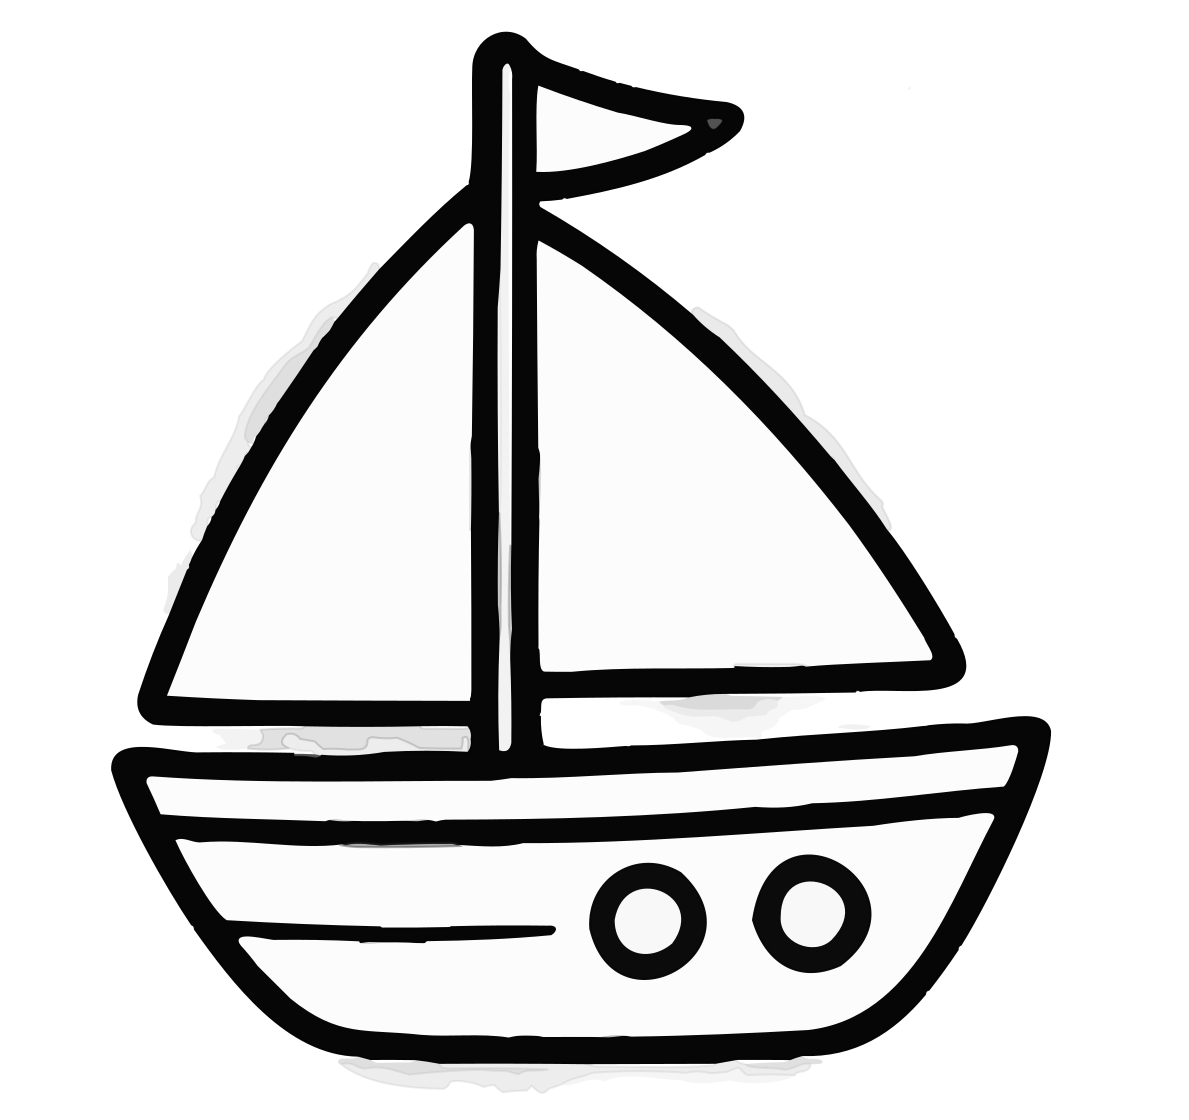
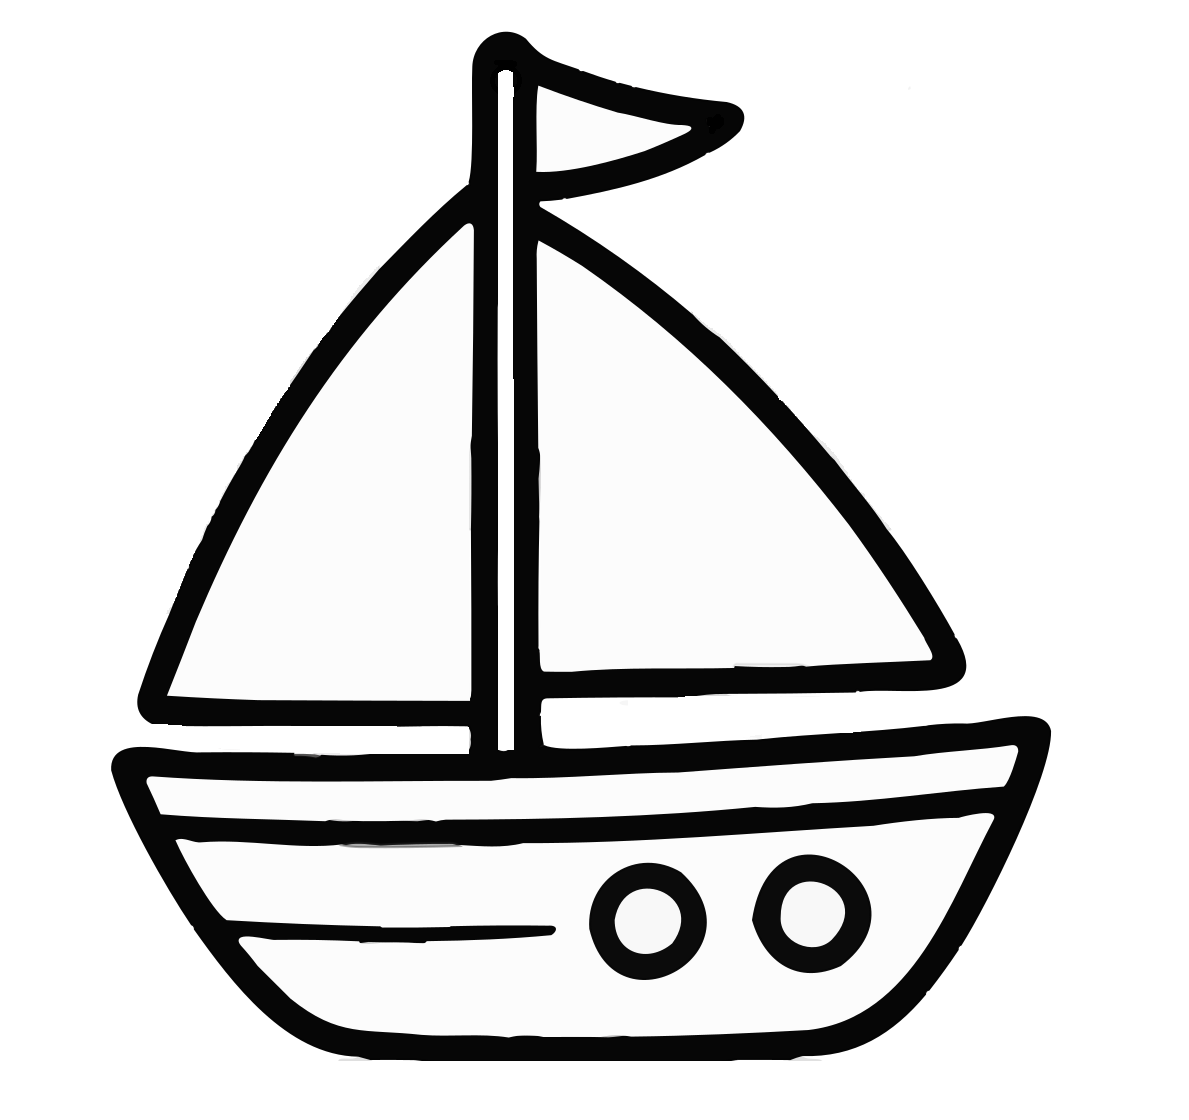
changes

diff --git a/js/coloring.js b/js/coloring.js
@@ -41,16 +41,27 @@
     }
 
     function randomColor() {
-        // More diverse random color selection - avoid immediate repeats
-        let color;
-        do {
-            color = PALETTE[Math.floor(Math.random() * PALETTE.length)];
-        } while (rainbow && color === lastRainbowColor && PALETTE.length > 1);
-        lastRainbowColor = color;
-        return color;
+        // Generate colors evenly spaced across the hue wheel so each click
+        // is visually far from the last. Hue jumps by ~60-90°, and saturation
+        // and lightness vary only slightly so colors feel related but distinct.
+        hue = (hue + 60 + Math.floor(Math.random() * 31)) % 360;
+        const s = 60 + Math.floor(Math.random() * 25);   // 60-85%
+        const l = 48 + Math.floor(Math.random() * 18);   // 48-66%
+        return hslToHex(hue, s, l);
     }
 
-    let lastRainbowColor = null;
+    let hue = Math.floor(Math.random() * 360);
+
+    function hslToHex(h, s, l) {
+        s /= 100; l /= 100;
+        const k = n => (n + h / 30) % 12;
+        const a = s * Math.min(l, 1 - l);
+        const f = n => {
+            const v = l - a * Math.max(-1, Math.min(k(n) - 3, Math.min(9 - k(n), 1)));
+            return Math.round(255 * v).toString(16).padStart(2, "0");
+        };
+        return "#" + f(0) + f(8) + f(4);
+    }
 
     function hexToRgb(hex) {
         return {
